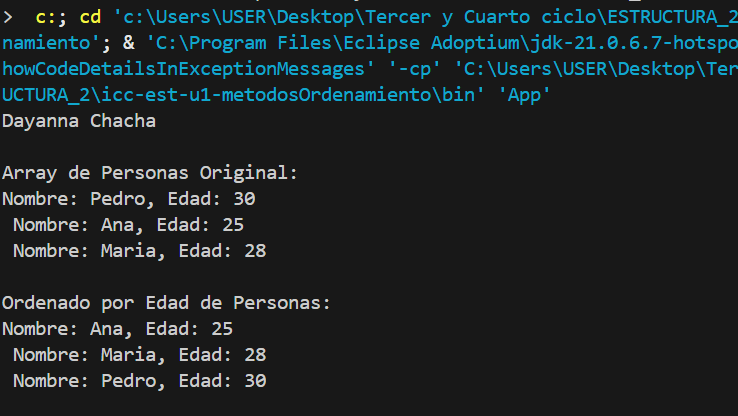
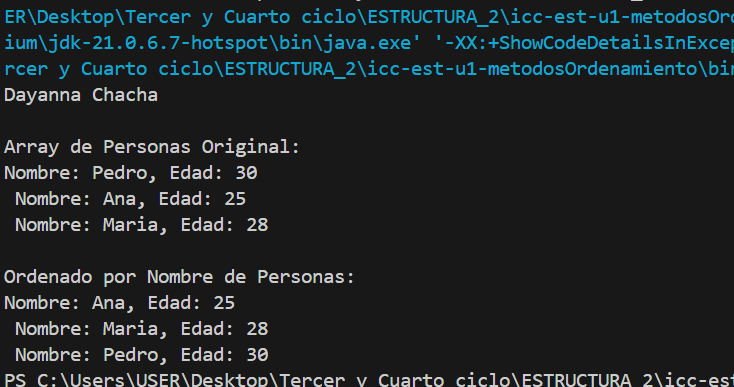
Deber terminado

diff --git a/src/App.java b/src/App.java
@@ -91,13 +91,13 @@ public class App {
 
         System.out.println("Array de Personas Original: ");
         claseSortInsertion.printArrayPersonas(personas);
-        System.out.println("\nOrdenado por Edad de Personas:");
+        /*System.out.println("\nOrdenado por Edad de Personas:");
         claseSortInsertion.sortPersonasByAge(personas);
-        claseSortInsertion.printArrayPersonas(personas);
-
-        /*System.out.println("\nOrdenado por Nombre de Personas:");
-        claseSortInsertion.sortPersonasByName(personas);
         claseSortInsertion.printArrayPersonas(personas);*/
+
+        System.out.println("\nOrdenado por Nombre de Personas:");
+        claseSortInsertion.sortPersonasByName(personas);
+        claseSortInsertion.printArrayPersonas(personas);
 
     }     
 }
